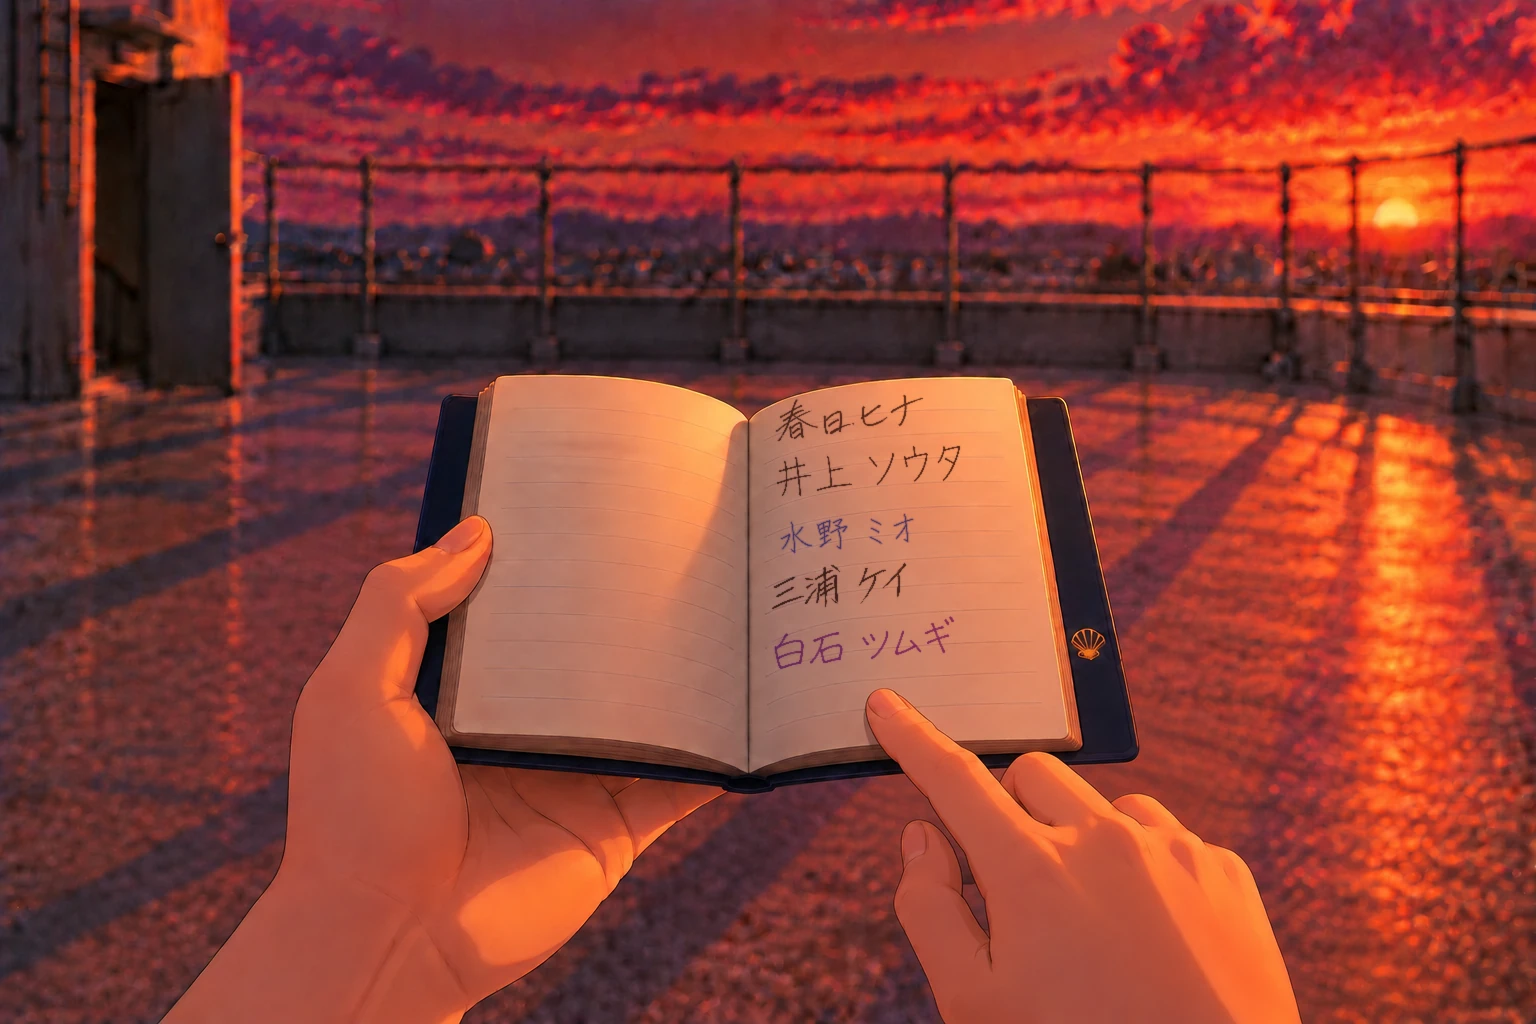
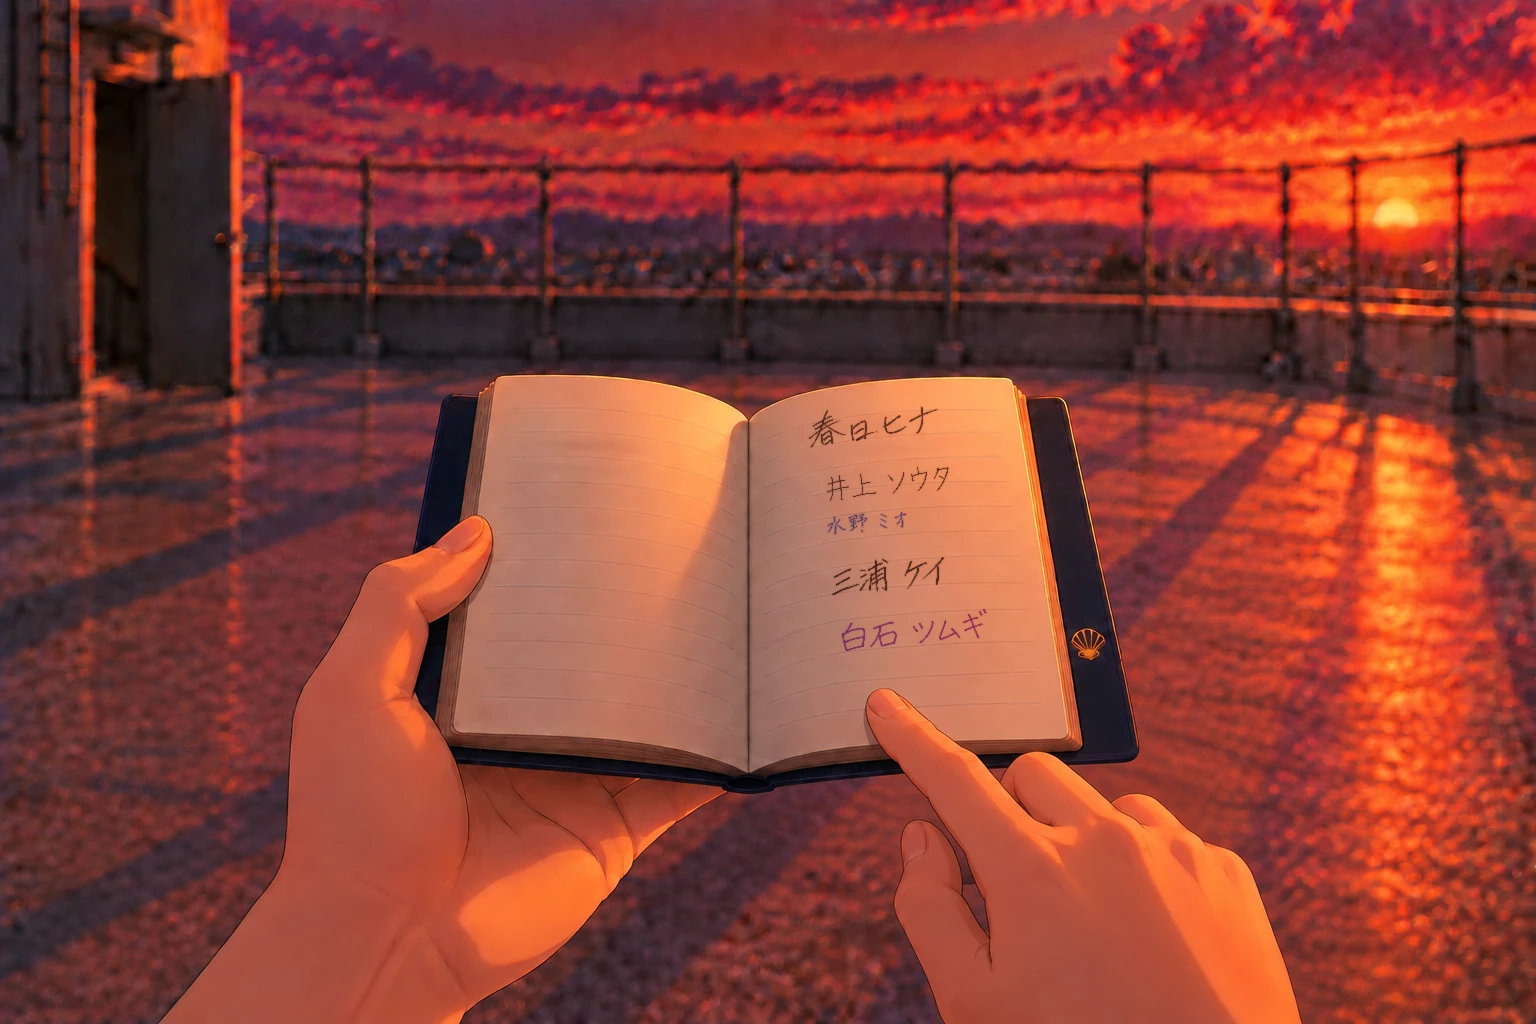
屋上の手帳2枚の字をそろえる（ヒナの字・大きさ・ページ内の位置）

Changed region(s): [[0.5, 0.4688, 0.625, 0.6562], [0.5, 0.375, 0.625, 0.4688]]

diff --git a/index.html b/index.html
@@ -1361,7 +1361,7 @@
     $('#scene').classList.add('cut');
   }
   // 屋上の手帳：名前の行に触れてなぞる。done はなぞり終えた子。返り値は子の id か 'blank'（6行目）
-  const NB_ROWS = [['art', 852, 414, 170, 52, -5.5], ['music', 871, 469, 202, 52, -5.5], ['library', 848, 530, 150, 52, -5.5], ['gym', 841, 586, 154, 52, -5.5], ['infirmary', 866, 642, 197, 52, -5.5], ['blank', 845, 700, 190, 46, -5.5]];   // [子, 中心x, 中心y, 長さ, 高さ, 罫線の傾き(度)]。座標は protag_notebook_front（手帳を拾って両手で開いた絵）1536×1024 基準。罫線は右上がり（約5.5°）。名前はページの横幅の6〜7割の大きさで、6人目の行（いちばん下の罫線）が白い行。指先がそこに触れている
+  const NB_ROWS = [['art', 874, 423, 147, 44, -5.5], ['music', 889, 483, 140, 40, -5.5], ['library', 867, 521, 95, 34, -5.5], ['gym', 889, 575, 131, 44, -5.5], ['infirmary', 916, 630, 162, 42, -5.5], ['blank', 860, 690, 180, 40, -5.5]];   // [子, 中心x, 中心y, 長さ, 高さ, 罫線の傾き(度)]。座標は protag_notebook_front（手帳を拾って両手で開いた絵）1536×1024 基準。罫線は右上がり（約5.5°）。名前の大きさとページ内の位置は、床に落ちている手帳の絵（protag_notebook_dusk）にそろえた。6人目の行が白い行で、指先がそこに触れている
   function traceName(done, zoom) {
     const order = NB_ROWS.map(r => r[0]).filter(k => k !== 'blank' && !done.includes(k));
     if (replay) {   // 早送り：記録した名前を使う（この仕組みより前のセーブには記録がないので、上から順に）
